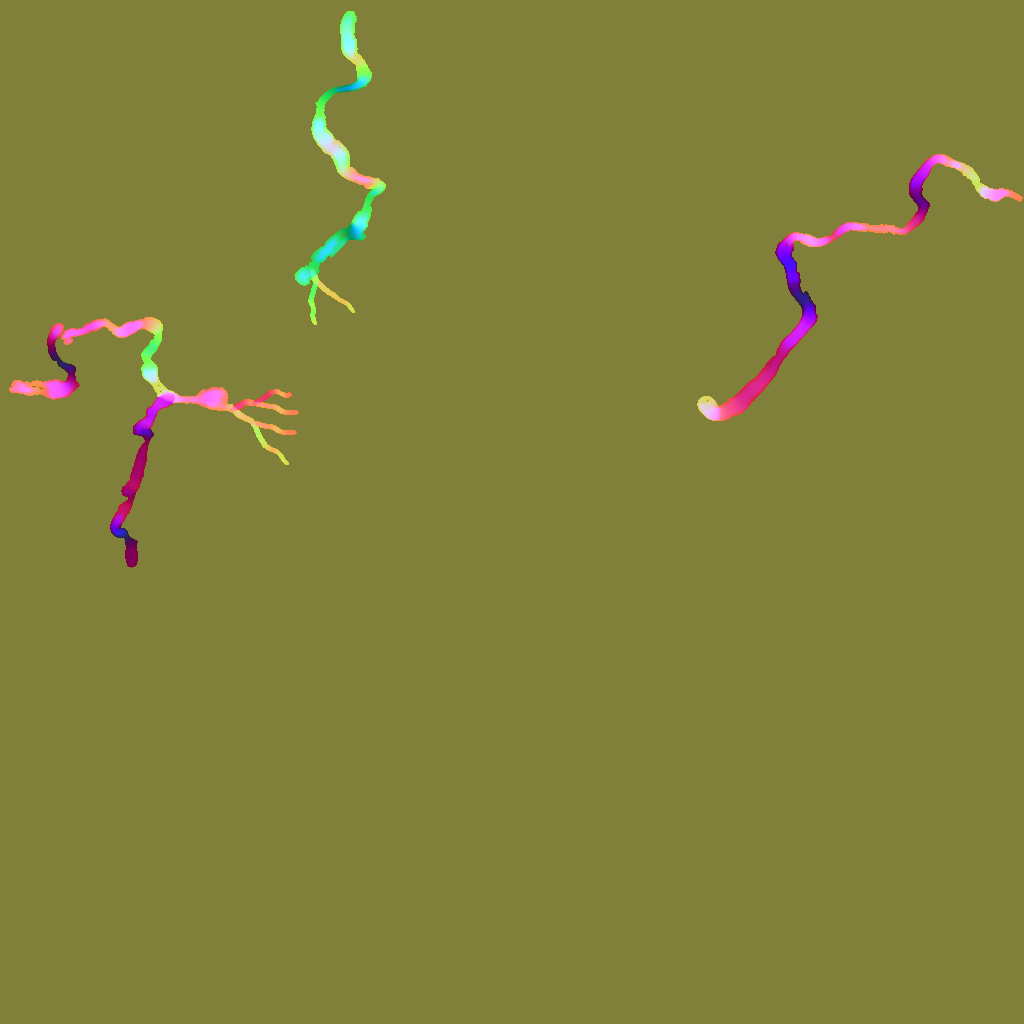
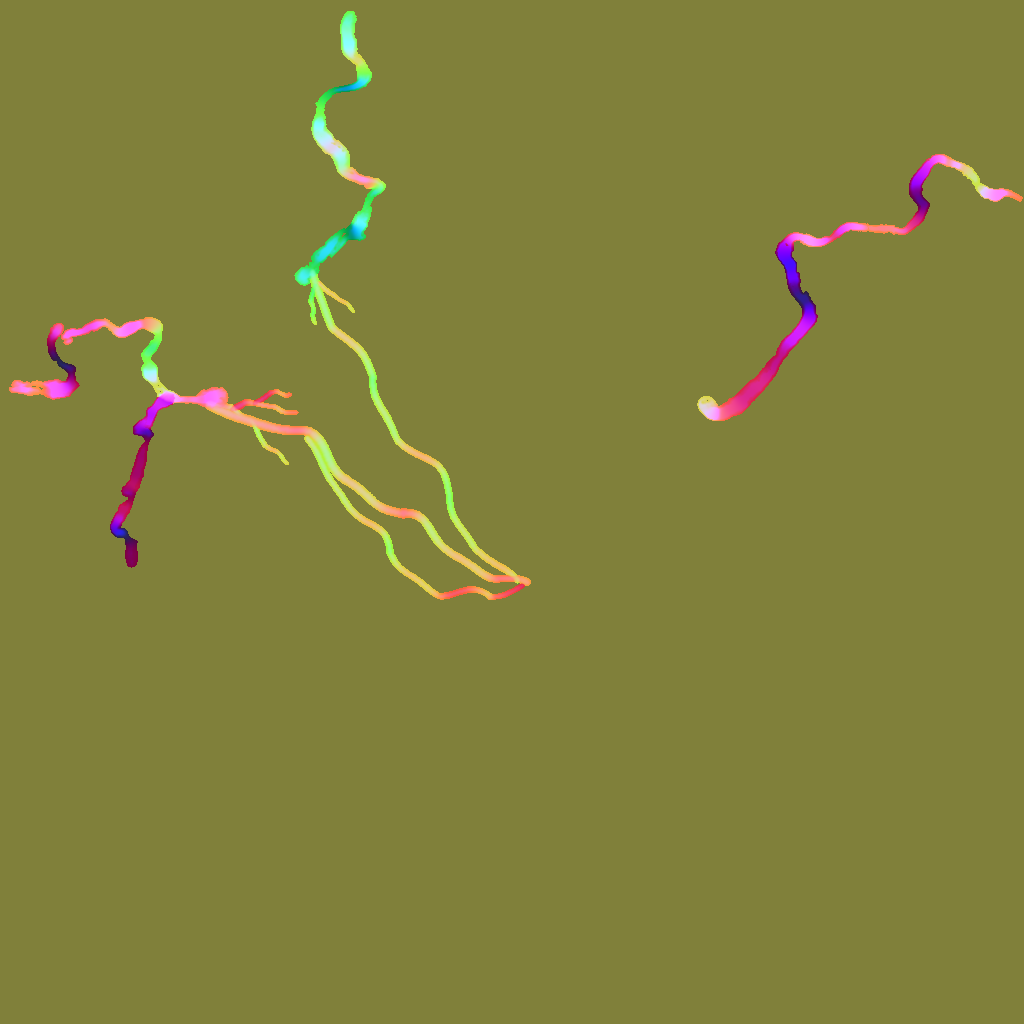
Make Neretva & Sava rivers reach Jezero Crater center first and fill outward

diff --git a/index.html b/index.html
@@ -338,8 +338,8 @@ body:not(.show-labels) .label { display: none; }
 </script>
 <script type="module">
 import * as THREE from 'three';
-import { createTabletop } from './quest-tabletop.mjs?v=20261123jez6';
-import { jezeroAgeGa, jezeroEvolution, jezeroHeight, JEZERO_GLSL, createJezeroSim } from './jezero-model.mjs?v=20261123jez6';
+import { createTabletop } from './quest-tabletop.mjs?v=20261123jez7';
+import { jezeroAgeGa, jezeroEvolution, jezeroHeight, JEZERO_GLSL, createJezeroSim } from './jezero-model.mjs?v=20261123jez7';
 import { clipmapCenter } from './terrain-lod.mjs';
 import { OrbitControls } from 'three/addons/controls/OrbitControls.js';
 import { EffectComposer } from 'three/addons/postprocessing/EffectComposer.js';
@@ -377,8 +377,8 @@ const loads = [
   fetch('data/meta.json', { cache: 'no-store' }).then(r => r.json()).then(m => (tick(), m)),
   loadPng16('data/d2048.png'),
   loadPng16('data/aux1024.png'),
-  loadPngRGBA('data/hydro1024.png?v=5'),
-  loadPngRGBA('data/flow1024.png?v=3'),
+  loadPngRGBA('data/hydro1024.png?v=6'),
+  loadPngRGBA('data/flow1024.png?v=4'),
   new THREE.TextureLoader().loadAsync('data/sat.jpg').then(t => (tick(), t)),
 ];
 const [META, dRaw, auxRaw, hydroRaw, flowRaw, satTex] = await Promise.all(loads)
@@ -517,7 +517,12 @@ function heightAt(x, z, st = S) {
   const lakeD = Math.max(0, st.ev.lakeMola - mola) * st.ev.lakeActive * inBasin;
   const inOn = smooth(0.0, 0.08, st.ev.inletFlow + st.ev.flashFlood);
   const inStage = clamp(mix(0.28, 0.78, st.ev.inletFlow) + 0.24 * st.ev.flashFlood, 0.0, 1.0);
-  const inletD = Math.max(0, hydroAt(0, x, z) * 40.0 - (1.0 - inStage) * 18.0) * inOn;
+  const dMouth = Math.min(Math.hypot(x - (-23100), z - (-8200)), Math.hypot(x - (-15200), z - (-18200)));
+  const reachFront = mix(-800, 31500, st.ev.riverReach);
+  const reachMask = 1.0 - smooth(reachFront - 2800, reachFront + 700, dMouth);
+  const canyonD = Math.max(0, hydroAt(0, x, z) * 40.0 - (1.0 - inStage) * 18.0) * inOn * (1.0 - inBasin);
+  const pioneerD = Math.max(0, hydroAt(0, x, z) * 40.0 - (1.0 - inStage) * 11.0) * inOn * inBasin * reachMask;
+  const inletD = Math.max(canyonD, Math.min(pioneerD, 1.8));
   const outOn = smooth(0.0, 0.06, st.ev.plivaFlow);
   const outStage = clamp(mix(0.28, 0.92, st.ev.plivaFlow), 0.0, 1.0);
   const outletD = Math.max(0, hydroAt(1, x, z) * 40.0 - (1.0 - outStage) * 18.0) * outOn;
@@ -627,6 +632,7 @@ const U = {
   uMorph: { value: new THREE.Vector3(0, 0, 0) },
   uLakeMola: { value: -2395.0 },
   uLakeActive: { value: 1.0 },
+  uRiverReach: { value: 1.0 },
   uInletFlow: { value: 1.0 },
   uPlivaFlow: { value: 1.0 },
   uFlashFlood: { value: 0.0 },
@@ -643,7 +649,7 @@ const U = {
 const COMMON = /* glsl */`
 uniform sampler2D tD, tAux, tHydro, tFlow, tNoise, tSat;
 uniform float uND, uSize, uDatumZero, uExag, uHot, uTime, uBase, uIsBake;
-uniform float uLakeMola, uLakeActive, uInletFlow, uPlivaFlow, uFlashFlood, uCarbonate, uDepMode;
+uniform float uLakeMola, uLakeActive, uRiverReach, uInletFlow, uPlivaFlow, uFlashFlood, uCarbonate, uDepMode;
 uniform vec2 uCenter, uMonsPos;
 uniform vec3 uSkyZenith, uSkyHorizon, uSkySunGlow, uSunDirW;
 uniform sampler2D tDep; uniform vec2 uDepXZ; uniform float uDepS, uDepOn;
@@ -682,21 +688,32 @@ float waterDepthAt(vec2 xz, float mola, float auxBasin, out vec4 hydro, out floa
 
   float inOn = smoothstep(0.0, 0.08, uInletFlow + uFlashFlood);
   float inStage = clamp(mix(0.28, 0.78, uInletFlow) + 0.24 * uFlashFlood + wave * inOn, 0.05, 1.02);
-  float canyonInD = max(0.0, hydro.r * 40.0 - (1.0 - inStage) * 18.0) * inOn;
-
-  float outOn = smoothstep(0.0, 0.06, uPlivaFlow);
-  float outStage = clamp(mix(0.28, 0.92, uPlivaFlow) + wave * outOn, 0.05, 1.0);
-  float outletD = max(0.0, hydro.g * 40.0 - (1.0 - outStage) * 18.0) * outOn;
 
   // Braided distributary channels on the emergent growing Western & Northern Fan-Deltas
   float builtMask = 1.0 - smoothstep(0.25, 0.65, deltaUnbuiltMask(xz));
   float aboveLake = mix(1.0, smoothstep(-5.0, 2.0, mola - uLakeMola), uLakeActive);
   float distD = max(0.0, hydro.b * 24.0 - (1.0 - inStage) * 11.0) * inOn * builtMask * aboveLake;
 
-  float canyonD = max(canyonInD, outletD);
-  riverD = max(canyonD, distD);
-  // Keep shallow delta distributaries flush with the alluvial fan surface (no artificial humps!)
-  vertLift = max(lakeD, max(canyonD, min(distD, 2.2)));
+  // Smoothly transition from canyon inlet (outside basin) to pioneer crater-floor channels (inside basin)
+  // with zero seam/pinch at the Neretva & Sava breach mouths!
+  float dW = length(xz - vec2(-23100.0, -8200.0));
+  float dN = length(xz - vec2(-15200.0, -18200.0));
+  float dMouth = min(dW, dN);
+  float reachFront = mix(-800.0, 31500.0, uRiverReach);
+  float reachMask = 1.0 - smoothstep(reachFront - 2800.0, reachFront + 700.0, dMouth);
+  float onDeltaBuilt = builtMask * smoothstep(9500.0, 5200.0, dMouth);
+  float stageDrop = mix(18.0, 11.0, inBasin);
+  float floorGate = mix(1.0, reachMask * (1.0 - onDeltaBuilt * 0.92), inBasin);
+  float inletAllD = max(0.0, hydro.r * 40.0 - (1.0 - inStage) * stageDrop) * inOn * floorGate;
+
+  float outOn = smoothstep(0.0, 0.06, uPlivaFlow);
+  float outStage = clamp(mix(0.28, 0.92, uPlivaFlow) + wave * outOn, 0.05, 1.0);
+  float outletD = max(0.0, hydro.g * 40.0 - (1.0 - outStage) * 18.0) * outOn;
+
+  riverD = max(max(inletAllD, outletD), distD);
+  // Keep shallow delta distributaries & pioneer crater-floor channels flush with the terrain (no artificial humps!)
+  float inletLift = mix(inletAllD, min(inletAllD, 1.8), inBasin);
+  vertLift = max(lakeD, max(max(inletLift, outletD), min(distD, 1.8)));
   return max(lakeD, riverD);
 }
 float baseH(vec2 xz, out vec4 aux) {
@@ -1389,6 +1406,7 @@ function apply(p) {
   U.uMorph.value.set(1 - ev.deltaProgress, ev.plivaFill, ev.belvaFill);
   U.uLakeMola.value = ev.lakeMola;
   U.uLakeActive.value = ev.lakeActive;
+  U.uRiverReach.value = ev.riverReach;
   U.uInletFlow.value = ev.inletFlow;
   U.uPlivaFlow.value = ev.plivaFlow;
   U.uFlashFlood.value = ev.flashFlood;

diff --git a/pipeline/build_hydrology.py b/pipeline/build_hydrology.py
@@ -381,6 +381,45 @@ delta_branches.append(paint_delta_distributary(nd_trunk, 2.8, 2.3, bankfull_dept
 delta_branches.append(paint_delta_distributary(nd_west,  2.0, 1.2, bankfull_depth=12.0, speed_scale=0.74))
 delta_branches.append(paint_delta_distributary(nd_east,  1.9, 1.2, bankfull_depth=11.5, speed_scale=0.74))
 
+# 3b. PIONEER CRATER-FLOOR CHANNELS — early Closed-Basin rivers reaching all the way
+#     across the dry crater floor to the lowest central depression (~(0, +5500), -2692 m MOLA)
+#     before the central paleolake pools and fills Jezero Crater outward from the center!
+print('Building pioneer crater-floor channels to lowest central basin...', flush=True)
+ner_floor_main = trace_meandering_delta_branch([
+    (-23100, -8200),
+    (-19400, -6800),
+    (-15600, -5600),
+    (-11800, -2400),
+    (-8600, 600),
+    (-4800, 2600),
+    (-1400, 4800),
+    (1200, 5400),
+], amp_m=950.0, freq=5.2, phase=0.4)
+ner_floor_south = trace_meandering_delta_branch([
+    (-15600, -5600),
+    (-12400, -600),
+    (-9400, 3200),
+    (-5400, 6000),
+    (-1600, 6800),
+    (800, 5600),
+], amp_m=820.0, freq=4.6, phase=-1.2)
+sava_floor_main = trace_meandering_delta_branch([
+    (-15200, -18200),
+    (-13800, -14000),
+    (-10400, -10400),
+    (-8600, -5600),
+    (-4800, -1200),
+    (-2600, 2600),
+    (400, 5200),
+], amp_m=920.0, freq=4.8, phase=1.6)
+
+pioneer_branches = [
+    paint_delta_distributary(ner_floor_main,  4.4, 3.0, bankfull_depth=23.0, speed_scale=0.88),
+    paint_delta_distributary(ner_floor_south, 2.8, 2.1, bankfull_depth=18.0, speed_scale=0.76),
+    paint_delta_distributary(sava_floor_main, 3.4, 2.4, bankfull_depth=20.0, speed_scale=0.82),
+]
+pioneer_floor = np.maximum.reduce([b[0] for b in pioneer_branches])
+
 # 4. PLIVA VALLIS OUTLET SPILLWAY — true flat-surface spillway gorge (the user's favorite!)
 print('Tracing Pliva Vallis spillway (true flat cross-section)...', flush=True)
 pliva_path = trace_incised_thalweg([
@@ -414,7 +453,7 @@ d_pli, vx_pli, vz_pli, rap_pli, spd_pli = flood_canyon_flat(
 #     G = vz * 0.5 + 0.5
 #     B = hydraulic rapids & flow speed (0..1)
 #     A = 255
-canyon_inlet = np.maximum.reduce([d_ner, d_nst, d_sav])
+canyon_inlet = np.maximum.reduce([d_ner, d_nst, d_sav, pioneer_floor])
 delta_dist = np.maximum.reduce([b[0] for b in delta_branches])
 outlet_depth = d_pli
 
@@ -424,7 +463,7 @@ parts = [
     (d_nst * 0.75, vx_nst, vz_nst, rap_nst, spd_nst),
     (d_sav, vx_sav, vz_sav, rap_sav, spd_sav),
     (d_pli, vx_pli, vz_pli, rap_pli, spd_pli),
-] + delta_branches
+] + delta_branches + pioneer_branches
 
 w_sum = np.full((N, N), 1e-5, dtype=np.float32)
 vx_all = np.zeros((N, N), dtype=np.float32)
